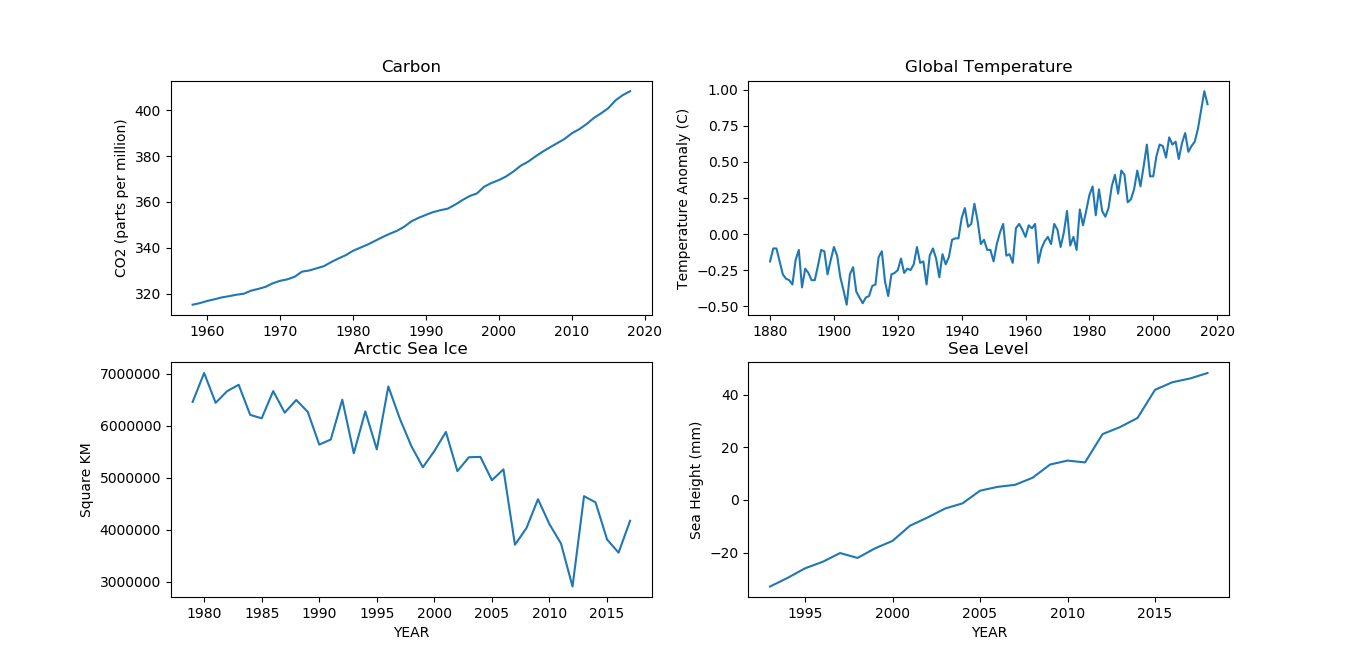
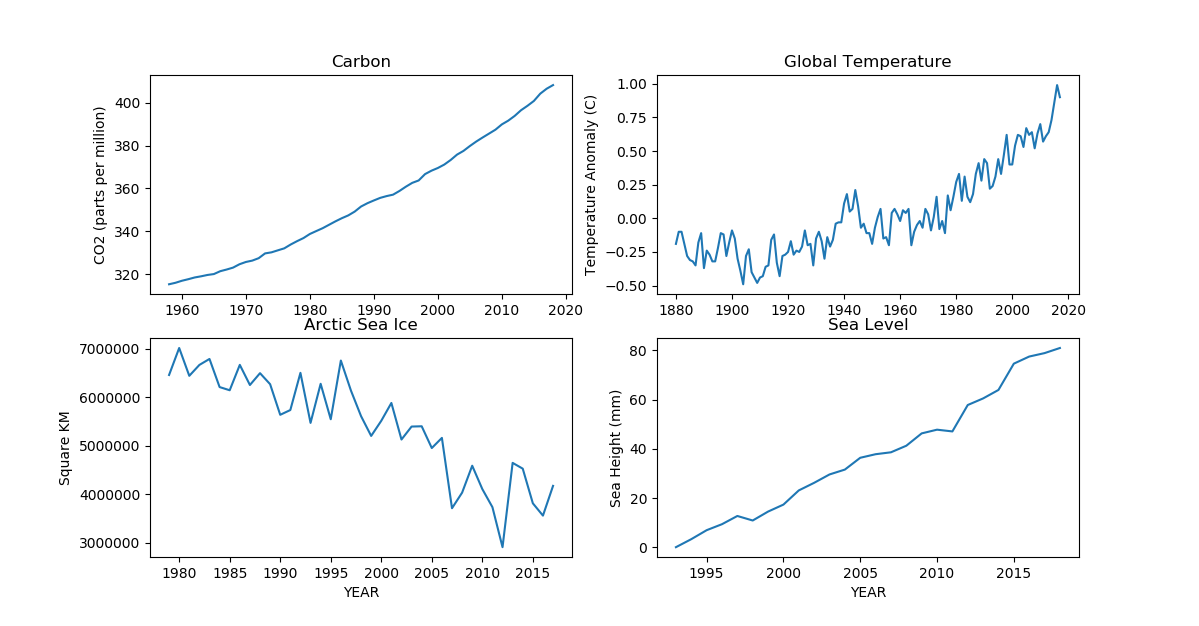
Update to V1.3 and Hot fix

diff --git a/Web/index2.html b/Web/index2.html
@@ -18,10 +18,31 @@
             <img class="imgall", src="Graph_img/All.jpg">
         </div>
         <div class="back2">
-            <h1>CARBON</h1>
-            <p style="color: #ffffff">Whenever I smell strong tobacco smoke when I'm in an enclosed space such as a room, train, or aircraft, I begin to get angry. There are several reasons. First, medical researchers have shown that secondhand smoke, that is, the smoke from other people's cigarettes, causes cancer and other health problems. If the smoke were car exhaust or burning trash, we would put out the fire and open the windows to get rid of the smoke. Second, it stinks. The smoke drifts away from the smoker and fills the room. Even if I am not sitting close to the smoker, my hair and clothes pick up the smell. Third, I'm slightly allergic to smoke; therefore, my nose stuffs up when I smell tobacco smoke. Am I saying that all smoking should be banned? Of course not. Smokers have a right to smoke. However, the right of people to breathe pure air must always be put before the right of smokers to pollute that air.
-                    Whenever I smell strong tobacco smoke when I'm in an enclosed space such as a room, train, or aircraft, I begin to get angry. There are several reasons. First, medical researchers have shown that secondhand smoke, that is, the smoke from other people's cigarettes, causes cancer and other health problems. If the smoke were car exhaust or burning trash, we would put out the fire and open the windows to get rid of the smoke. Second, it stinks. The smoke drifts away from the smoker and fills the room. Even if I am not sitting close to the smoker, my hair and clothes pick up the smell. Third, I'm slightly allergic to smoke; therefore, my nose stuffs up when I smell tobacco smoke. Am I saying that all smoking should be banned? Of course not. Smokers have a right to smoke. However, the right of people to breathe pure air must always be put before the right of smokers to pollute that air.
-                    Whenever I smell strong tobacco smoke when I'm in an enclosed space such as a room, train, or aircraft, I begin to get angry. There are several reasons. First, medical researchers have shown that secondhand smoke, that is, the smoke from other people's cigarettes, causes cancer and other health problems. If the smoke were car exhaust or burning trash, we would put out the fire and open the windows to get rid of the smoke. Second, it stinks. The smoke drifts away from the smoker and fills the room. Even if I am not sitting close to the smoker, my hair and clothes pick up the smell. Third, I'm slightly allergic to smoke; therefore, my nose stuffs up when I smell tobacco smoke. Am I saying that all smoking should be banned? Of course not. Smokers have a right to smoke. However, the right of people to breathe pure air must always be put before the right of smokers to pollute that air.	
+            <img src="">
+            <h1> Carbon Dioxide(คาร์บอนไดออกไซด์) </h1>
+            <p style="color: #ffffff">Carbon Dioxide คาร์บอนไดออกไซด์เป็นก๊าซเรือนกระจกที่ปล่อยแก๊สเรือนกระจกที่สำคัญซึ่งปล่อยออกมาจากกิจกรรมของมนุษย์เช่นการตัดไม้ทำลายป่า<br>และการเผาไหม้เชื้อเพลิงฟอสซิลรวมทั้งกระบวนการทางธรรมชาติเช่นการหายใจและการระเบิดของภูเขาไฟ กราฟแรกแสดงระดับ CO2 ในอากาศที่วัดที่หอคอย Mauna Loa <br>
+                รัฐฮาวายในช่วงหลายปีที่ผ่านมาโดยมีการถอดวงจรฤดูกาลตามฤดูกาลออก กราฟที่สองแสดงระดับคาร์บอนไดออกไซด์ในช่วงสามช่วงน้ำแข็งที่ผ่านการสร้างขึ้นใหม่จากแกนน้ำแข็ง
+ชุดข้อมูลด้านล่างแสดงการแจกจ่ายและความแปรผันของความเข้มข้นของก๊าซคาร์บอนไดออกไซด์ระหว่าง tropospheric ในส่วนต่อล้าน (ppm) สีโดยรวมของแผนที่จะเปลี่ยนไปเป็นสีแดงและมีระยะเวลาเพิ่มขึ้นเนื่องจากมีการเพิ่ม CO2 เป็นประจำทุกปี
+และเราก็จะหาค่าเฉลี่ยของแต่ละปีจะมาทำออกมาเป็นรูปแบบกราฟให้ได้เห็น โดยที่กลุ่มพวกเราจะหาตั้งแต่ปี 1958-2018
+            </p>
+            <br><br>
+            <h1>Global Temperature(อุณหภูมิโลก)</h1>
+            <p class="para2" style="color: #ffffff">
+                กราฟที่แสดงต่อไปนี้ จะแสดงอุณหภูมิของโลกตั้งแต่ปี 1900-1950 เหตุผลที่อุณหภูมิของโลกเพิ่มหรือลดลงตามกราฟที่ได้เห็นก็เป็นเพราะว่า
+                <br>จำนวนของก๊าซ Carbon Dioxide เพิ่มขึ้นหรือลดลงตามแต่ละปีจึงทำให้อุณหภูมิเพิ่มขึ้นด้วย อย่างเช่น ตอนปี 1904 อุณหภูมิจะลดลงเป็นพิเศษอาจจะเป็นเพราะ<br> ก๊าซ Carbon Dioxide มีจำนวนน้อยกว่าปีก่อนๆ จึงทำให้อุณหภูมิต่ำลง และปี 1944 อุณหภูมิเพิ่มขึ้น ดังนั้นเราตัดสินได้เลยว่าเป็นเพราะก๊าซ Carbon Dioxide เพิ่มขึ้นอย่างแน่นอนและหลังจากปี 1944 ก๊าซ Carbon Dioxide จะเพิ่มขึ้นเรื่อยๆและอุณหภูมิก็จะเพิ่มขึ้นด้วยเช่นกันตามข้อมูลที่กลุ่มผมได้หามาทั้งหมด เป็นเพราะประชากรของโลกเพิ่มขึ้น
+                <br> การคมนาคมอุตสาหกรรมก็จะเริ่มเยอะขึ้นเรื่อยๆ ก๊าซ Carbon Dioxide ก็จะเพิ่มขึ้นและอุณหภูมิของโลกก็จะยิ่งเพิ่มขึ้นและจะส่งผลต่อสิ่งแวดล้อมต่างๆด้วยเช่นกัน
+            </p>
+            <br><br>
+            <h1>Arctic Sea Ice Minimum (น้ำแข็งทะเลอาร์กติกขั้นต่ำ)</h1>
+            <p class="para3" style="color: #ffffff">Arctic Sea Ice Minimum (น้ำแข็งทะเลอาร์กติกขั้นต่ำ)
+        น้ำแข็งทะเลอาร์กติกจะมีระดับเพิ่มขึ้นสูงสุดในช่วงปี 1979 ถึง 1980 มีปริมาณน้ำแข็งอยู่ถึง 7.90 million sq km และจะลดต่ำลงในปี 1981และเพิ่มขึ้นลงอย่างนี้ถึงปี 1990 ที่มีปริมาณน้ำแข็งอยู่ที่ 6.30 และะเพิ่มอีกครั้งในปี 1992 ที่ขึ้นมามีปริมาณนี้ำแข็งอยู่ที่ 7.30 และ ลดลงมา ในปีต่อมาเหลือปริมาณน้ำแข็งที่ 6.20 เป็นอย่างนี้ อยู่ประมาณสองปี และ ขึ้นสูงอีกครั้งในปีที่ 1996 อยู่ที่ 7.60 million sq km ก่อนที่จะลดต่ำที่สุดในรอบ 15 ปี อยู่ที่ 3.40 milion sq km <br>
+        ในปี 2012 และมีแนวโน้มที่จะลดลงอย่างต่อเนื่อง สาเหตุหลักที่ทำให้ปริมาณน้ำแข็งทะเลอาร์กติกลงได้มากขนาดนี้ หลักๆ จะมาจากการเพิ่มขึ้นของอุณหภูมิโลกจึงทำน้ำแข็งทะเลอาร์กติกละลายได้มากขนาดนี้และพอน้ำแข็งละลายจะทำให้ระดับน้ำทะเลสูงขึ้นตามลำดับ น้ำแข็งทะเลอาร์กติกจะถึงระดับต่ำสุดในแต่ละเดือนกันยายน กันยายนน้ำแข็งทะเลอาร์กติกกำลังลดลงในอัตราร้อยละ 12.8 ต่อทศวรรษเมื่อเทียบกับค่าเฉลี่ยปีพ.ศ. 524 ถึง พ.ศ.2553 กราฟนี้แสดงขอบเขตน้ำแข็งทะเลอาร์กติกเฉลี่ยรายเดือนในแต่ละเดือนกันยายนนับตั้งแต่ปีพ.ศ.2522 ซึ่งเป็นผลมาจากการสังเกตจากดาวเทียม
+        ชุดข้อมูลด้านล่างแสดงให้เห็นน้ำแข็งทะเลอาร์กติกประจำปีตั้งแต่ปีพ.ศ.2522 ตามการสังเกตการณ์จากดาวเทียม<br>
+        ขอบเขตของทะเลในปี 2012 เป็นจุดต่ำสุดในการบันทึกข้อมูลดาวเทียม
+            </p>
+            <br><br>
+            <h1>Sea Level ( ระดับน้ำทะเล )</h1>
+            <p class="para4" style="color: #ffffff">ต่อเนื่องจากละลายของน้ำแข็งทะเลอาร์กติกทำให้การเพิ่มขึ้นของระดับน้ำทะเลเกิดจากปัจจัยสองประการที่เกี่ยวข้องกับภาวะโลกร้อนคือน้ำเพิ่มจากการละลายน้ำแข็งแผ่นและธารน้ำแข็งและการขยายตัวของน้ำทะเลในขณะที่มันอุ่นขึ้น กราฟแรกแสดงการเปลี่ยนแปลงของระดับน้ำทะเลตั้งแต่ปี 2536 ตามที่ดาวเทียมสังเกตเห็น กราฟที่สองซึ่งได้มาจากข้อมูลมาตรวัดน้ำชายฝั่งชี้ให้เห็นว่าระดับน้ำทะเลมีการเปลี่ยนแปลงจากประมาณ 1870 ถึง 2000 จะเห็นได้อย่างชัดเจนว่าระดับน้ำ เพิ่มขึ้นในทุกๆปี แต่ก็ยังมีระดับน้ำที่ลดลงอยู่แต่ก็เพิ่มขึ้นมาเหมือนเดิมในทุกปีปริมาณ 3.2 millimeters per year
             </p>
         </div>
     </body>

diff --git a/Web/index3.html b/Web/index3.html
@@ -18,10 +18,29 @@
             <img class="imgall", src="Graph_img/All.jpg">
         </div>
         <div class="back2">
-            <h1>CARBON</h1>
-            <p style="color: #ffffff">Whenever I smell strong tobacco smoke when I'm in an enclosed space such as a room, train, or aircraft, I begin to get angry. There are several reasons. First, medical researchers have shown that secondhand smoke, that is, the smoke from other people's cigarettes, causes cancer and other health problems. If the smoke were car exhaust or burning trash, we would put out the fire and open the windows to get rid of the smoke. Second, it stinks. The smoke drifts away from the smoker and fills the room. Even if I am not sitting close to the smoker, my hair and clothes pick up the smell. Third, I'm slightly allergic to smoke; therefore, my nose stuffs up when I smell tobacco smoke. Am I saying that all smoking should be banned? Of course not. Smokers have a right to smoke. However, the right of people to breathe pure air must always be put before the right of smokers to pollute that air.
-                    Whenever I smell strong tobacco smoke when I'm in an enclosed space such as a room, train, or aircraft, I begin to get angry. There are several reasons. First, medical researchers have shown that secondhand smoke, that is, the smoke from other people's cigarettes, causes cancer and other health problems. If the smoke were car exhaust or burning trash, we would put out the fire and open the windows to get rid of the smoke. Second, it stinks. The smoke drifts away from the smoker and fills the room. Even if I am not sitting close to the smoker, my hair and clothes pick up the smell. Third, I'm slightly allergic to smoke; therefore, my nose stuffs up when I smell tobacco smoke. Am I saying that all smoking should be banned? Of course not. Smokers have a right to smoke. However, the right of people to breathe pure air must always be put before the right of smokers to pollute that air.
-                    Whenever I smell strong tobacco smoke when I'm in an enclosed space such as a room, train, or aircraft, I begin to get angry. There are several reasons. First, medical researchers have shown that secondhand smoke, that is, the smoke from other people's cigarettes, causes cancer and other health problems. If the smoke were car exhaust or burning trash, we would put out the fire and open the windows to get rid of the smoke. Second, it stinks. The smoke drifts away from the smoker and fills the room. Even if I am not sitting close to the smoker, my hair and clothes pick up the smell. Third, I'm slightly allergic to smoke; therefore, my nose stuffs up when I smell tobacco smoke. Am I saying that all smoking should be banned? Of course not. Smokers have a right to smoke. However, the right of people to breathe pure air must always be put before the right of smokers to pollute that air.	
+            <img src="">
+            <h1> Carbon Dioxide(คาร์บอนไดออกไซด์) </h1>
+            <p style="color: #ffffff">ในปี 2018 จำนวนของ Carbon มีจำนวน ... และกลุ่มของเรได้ทำการคำนวณจำนวน Carbon ใน 7 ปี ข้างหน้าคือปี 2025 ได้จำนวน ... จะเห็นได้ว่าจำนวน Carbon มีจำนวนเพิ่มขึ้นเพราะว่ามีจำนวนประชากรเพิ่มขึ้น การตัดไม้ทำลายป่าเพื่อสร้างถิ่นฐานเพื่ออยุ่อาศัยและการทำอุตสาหกรรมก็เพิ่มขึ้นเช่นกัน และ จำนวน Carbon ที่เพิ่มขึ้นตามที่กลุ่มพวกเราหามาได้จะส่งผลให้อุณหภูมิหรือ Temperature มีจำนวนสูงขึ้นด้วย เช่น เกิดจากควันรถยนต์ที่เพิ่มขึ้นเพราะประชากรมีความต้องการซื้อรถยนต์เพิ่มขึ้น , ปรากฏการณ์เอลนีโญที่ทำให้ั้นบรรยากาศโลกมีก๊าซ Carbon เข้มข้นขึ้น จึงทำให้เกิดปรากฏการณ์เรือนกระจก<br>
+
+**** จำนวนที่กลุ่มพวกเราหามาได้นั้นเป็นเพียงการคาดการณ์เท่านั้นไม่สามารถหาตัวเลขที่แน่นอนได้และอาจเปลี่ยนแปลงได้ตลอดเวลา ****</p>
+            <br><br>
+            <h1>Global Temperature(อุณหภูมิโลก)</h1>
+            <p class="para2" style="color: #ffffff">
+                ในปี 2018 จำนวนของ Temp มีจำนวน ... และกลุ่มพวกเราได้ทำการคำนวณจำนวนของ Temp ใน 7 ปีข้างหน้าคือปี 2025 ได้จำนวน ... จะเห็นได้ว่า จำนวนอุณหภูมิหรือ Temp ที่กลุ่มพวกเราหามาได้นั้นก็จะยิ่งสูงมากขึ้นเพราะการเพิ่มขึ้นของๅ Carbon การที่อุณหภุมิสูงขึ้นจะส่งผลต่อสิ่งแวดล้อมหลายอย่าง เช่น อากาศร้อน ม พืชผักบางอย่างปลูกไม่ได้ แต่ที่ส่งผลต่อโลกมากที่สุดก็จะเป็นการที่น้ำแข็งที่ขั้วโ,กละลายมากขึ้น<br>
+
+**** จำนวนที่กลุ่มพวกเราหามาได้นั้นเป็นเพียงการคาดการณ์เท่านั้นไม่สามารถหาตัวเลขที่แน่นอนได้และอาจเปลี่ยนแปลงได้ตลอดเวลา ****
+            </p>
+            <br><br>
+            <h1>Arctic Sea Ice Minimum (น้ำแข็งทะเลอาร์กติกขั้นต่ำ)</h1>
+            <p class="para3" style="color: #ffffff">Arctic Sea Ice Minimum (น้ำแข็งทะเลอาร์กติกขั้นต่ำ)
+        น้ำแข็งทะเลอาร์กติกจะมีระดับเพิ่มขึ้นสูงสุดในช่วงปี 1979 ถึง 1980 มีปริมาณน้ำแข็งอยู่ถึง 7.90 million sq km และจะลดต่ำลงในปี 1981และเพิ่มขึ้นลงอย่างนี้ถึงปี 1990 ที่มีปริมาณน้ำแข็งอยู่ที่ 6.30 และะเพิ่มอีกครั้งในปี 1992 ที่ขึ้นมามีปริมาณนี้ำแข็งอยู่ที่ 7.30 และ ลดลงมา ในปีต่อมาเหลือปริมาณน้ำแข็งที่ 6.20 เป็นอย่างนี้ อยู่ประมาณสองปี และ ขึ้นสูงอีกครั้งในปีที่ 1996 อยู่ที่ 7.60 million sq km ก่อนที่จะลดต่ำที่สุดในรอบ 15 ปี อยู่ที่ 3.40 milion sq km <br>
+        ในปี 2012 และมีแนวโน้มที่จะลดลงอย่างต่อเนื่อง สาเหตุหลักที่ทำให้ปริมาณน้ำแข็งทะเลอาร์กติกลงได้มากขนาดนี้ หลักๆ จะมาจากการเพิ่มขึ้นของอุณหภูมิโลกจึงทำน้ำแข็งทะเลอาร์กติกละลายได้มากขนาดนี้และพอน้ำแข็งละลายจะทำให้ระดับน้ำทะเลสูงขึ้นตามลำดับ น้ำแข็งทะเลอาร์กติกจะถึงระดับต่ำสุดในแต่ละเดือนกันยายน กันยายนน้ำแข็งทะเลอาร์กติกกำลังลดลงในอัตราร้อยละ 12.8 ต่อทศวรรษเมื่อเทียบกับค่าเฉลี่ยปีพ.ศ. 524 ถึง พ.ศ.2553 กราฟนี้แสดงขอบเขตน้ำแข็งทะเลอาร์กติกเฉลี่ยรายเดือนในแต่ละเดือนกันยายนนับตั้งแต่ปีพ.ศ.2522 ซึ่งเป็นผลมาจากการสังเกตจากดาวเทียม
+        ชุดข้อมูลด้านล่างแสดงให้เห็นน้ำแข็งทะเลอาร์กติกประจำปีตั้งแต่ปีพ.ศ.2522 ตามการสังเกตการณ์จากดาวเทียม<br>
+        ขอบเขตของทะเลในปี 2012 เป็นจุดต่ำสุดในการบันทึกข้อมูลดาวเทียม
+            </p>
+            <br><br>
+            <h1>Sea Level ( ระดับน้ำทะเล )</h1>
+            <p class="para4" style="color: #ffffff">ต่อเนื่องจากละลายของน้ำแข็งทะเลอาร์กติกทำให้การเพิ่มขึ้นของระดับน้ำทะเลเกิดจากปัจจัยสองประการที่เกี่ยวข้องกับภาวะโลกร้อนคือน้ำเพิ่มจากการละลายน้ำแข็งแผ่นและธารน้ำแข็งและการขยายตัวของน้ำทะเลในขณะที่มันอุ่นขึ้น กราฟแรกแสดงการเปลี่ยนแปลงของระดับน้ำทะเลตั้งแต่ปี 2536 ตามที่ดาวเทียมสังเกตเห็น กราฟที่สองซึ่งได้มาจากข้อมูลมาตรวัดน้ำชายฝั่งชี้ให้เห็นว่าระดับน้ำทะเลมีการเปลี่ยนแปลงจากประมาณ 1870 ถึง 2000 จะเห็นได้อย่างชัดเจนว่าระดับน้ำ เพิ่มขึ้นในทุกๆปี แต่ก็ยังมีระดับน้ำที่ลดลงอยู่แต่ก็เพิ่มขึ้นมาเหมือนเดิมในทุกปีปริมาณ 3.2 millimeters per year
             </p>
         </div>
     </body>

diff --git a/Web/index.html b/Web/index.html
@@ -18,10 +18,11 @@
 			<img class="imgsingle", src="Graph_img/Figure_1.jpg">
 		</div>
 		<div class="back2">
-			<h1>CARBON</h1>
-			<p style="color: #ffffff">Whenever I smell strong tobacco smoke when I'm in an enclosed space such as a room, train, or aircraft, I begin to get angry. There are several reasons. First, medical researchers have shown that secondhand smoke, that is, the smoke from other people's cigarettes, causes cancer and other health problems. If the smoke were car exhaust or burning trash, we would put out the fire and open the windows to get rid of the smoke. Second, it stinks. The smoke drifts away from the smoker and fills the room. Even if I am not sitting close to the smoker, my hair and clothes pick up the smell. Third, I'm slightly allergic to smoke; therefore, my nose stuffs up when I smell tobacco smoke. Am I saying that all smoking should be banned? Of course not. Smokers have a right to smoke. However, the right of people to breathe pure air must always be put before the right of smokers to pollute that air.
-			Whenever I smell strong tobacco smoke when I'm in an enclosed space such as a room, train, or aircraft, I begin to get angry. There are several reasons. First, medical researchers have shown that secondhand smoke, that is, the smoke from other people's cigarettes, causes cancer and other health problems. If the smoke were car exhaust or burning trash, we would put out the fire and open the windows to get rid of the smoke. Second, it stinks. The smoke drifts away from the smoker and fills the room. Even if I am not sitting close to the smoker, my hair and clothes pick up the smell. Third, I'm slightly allergic to smoke; therefore, my nose stuffs up when I smell tobacco smoke. Am I saying that all smoking should be banned? Of course not. Smokers have a right to smoke. However, the right of people to breathe pure air must always be put before the right of smokers to pollute that air.
-			Whenever I smell strong tobacco smoke when I'm in an enclosed space such as a room, train, or aircraft, I begin to get angry. There are several reasons. First, medical researchers have shown that secondhand smoke, that is, the smoke from other people's cigarettes, causes cancer and other health problems. If the smoke were car exhaust or burning trash, we would put out the fire and open the windows to get rid of the smoke. Second, it stinks. The smoke drifts away from the smoker and fills the room. Even if I am not sitting close to the smoker, my hair and clothes pick up the smell. Third, I'm slightly allergic to smoke; therefore, my nose stuffs up when I smell tobacco smoke. Am I saying that all smoking should be banned? Of course not. Smokers have a right to smoke. However, the right of people to breathe pure air must always be put before the right of smokers to pollute that air.	
+			<h1> Carbon Dioxide(คาร์บอนไดออกไซด์) </h1>
+			<p style="color: #ffffff">Carbon Dioxide คาร์บอนไดออกไซด์เป็นก๊าซเรือนกระจกที่ปล่อยแก๊สเรือนกระจกที่สำคัญซึ่งปล่อยออกมาจากกิจกรรมของมนุษย์เช่นการตัดไม้ทำลายป่า<br>และการเผาไหม้เชื้อเพลิงฟอสซิลรวมทั้งกระบวนการทางธรรมชาติเช่นการหายใจและการระเบิดของภูเขาไฟ กราฟแรกแสดงระดับ CO2 ในอากาศที่วัดที่หอคอย Mauna Loa <br>
+			รัฐฮาวายในช่วงหลายปีที่ผ่านมาโดยมีการถอดวงจรฤดูกาลตามฤดูกาลออก กราฟที่สองแสดงระดับคาร์บอนไดออกไซด์ในช่วงสามช่วงน้ำแข็งที่ผ่านการสร้างขึ้นใหม่จากแกนน้ำแข็ง
+			ชุดข้อมูลด้านล่างแสดงการแจกจ่ายและความแปรผันของความเข้มข้นของก๊าซคาร์บอนไดออกไซด์ระหว่าง tropospheric ในส่วนต่อล้าน (ppm) สีโดยรวมของแผนที่จะเปลี่ยนไปเป็นสีแดงและมีระยะเวลาเพิ่มขึ้นเนื่องจากมีการเพิ่ม CO2 เป็นประจำทุกปี
+			และเราก็จะหาค่าเฉลี่ยของแต่ละปีจะมาทำออกมาเป็นรูปแบบกราฟให้ได้เห็น โดยที่กลุ่มพวกเราจะหาตั้งแต่ปี 1958-2018
 			</p>
 		</div>
 	</body>

diff --git a/Python/graph.py b/Python/graph.py
@@ -96,7 +96,7 @@ def all_graph():
     plt.xlabel("YEAR")
     plt.ylabel("Square KM")
     fig.add_subplot(224)
-    plt.plot(years_data4, vars_data4)
+    plt.plot(years_data4, new_vars_data4)
     plt.title("Sea Level")
     plt.xlabel("YEAR")
     plt.ylabel("Sea Height (mm)")
